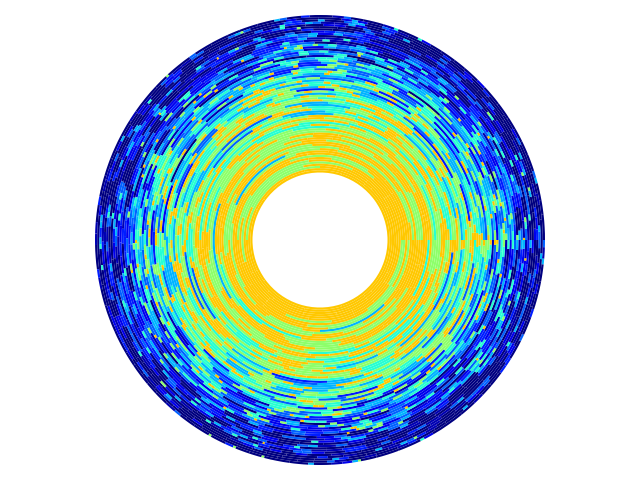
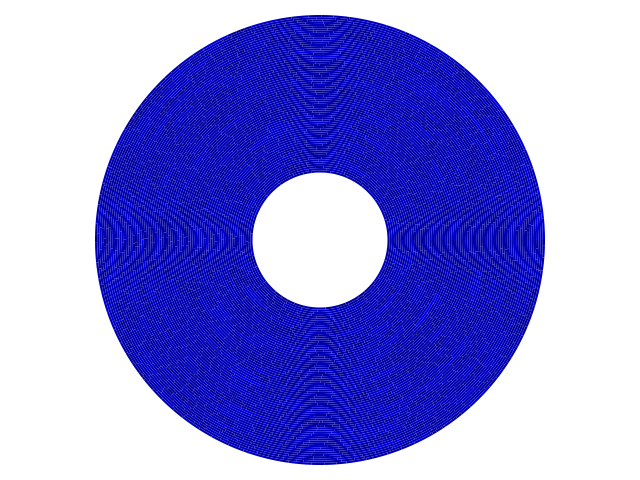
Update plot

diff --git a/diskpropsim/plot.py b/diskpropsim/plot.py
@@ -3,7 +3,6 @@
 from tqdm import tqdm
 import matplotlib.animation as animation
 import matplotlib.pyplot as plt
-import numpy as np
 
 
 def plot_snapshot(snapshot_state, r_in, r_out, progress_bar=False):
@@ -38,11 +37,11 @@ def _plot_snapshot_core(snapshot_state, r_in, r_out, ax,
     num_anulus, num_segments = snapshot_state.shape
     size = (r_out - r_in) / num_anulus
 
-    cmap = plt.colormaps["jet_r"]
+    cmap = plt.colormaps["jet"]
 
     for i, anulus in enumerate(tqdm(snapshot_state,
                                     disable=not(progress_bar))):
-        colors = cmap(np.log10(1+anulus))
+        colors = cmap(anulus)
         radius = r_out - i * size
         ax.pie(anulus, radius=radius, colors=colors,
                wedgeprops=dict(width=size))

diff --git a/example/propagation_adaf.py b/example/propagation_adaf.py
@@ -9,7 +9,7 @@ import diskpropsim as dps
 def main():
 
     num_step = 1000
-    r_out = 100
+    r_in = 30
 
     def initial_state_func(size):
         return np.random.poisson(10, size)
@@ -19,9 +19,9 @@ def main():
 
     fig, ax = plt.subplots(5, 2, figsize=(10, 12),
                            sharex="col", sharey="row")
-    for i, r_in in enumerate([50, 60, 70, 80, 90]):
+    for i, r_out in enumerate([50, 60, 70, 80, 90]):
 
-        dp = dps.DiskPropagation(r_in, r_out, 0.95)
+        dp = dps.DiskPropagation(r_in, r_out, 1.00)
         dp.initialize(initial_state_func)
         dp.run_simulation(num_step)
 

diff --git a/example/simple_polarimage.py b/example/simple_polarimage.py
@@ -19,7 +19,7 @@ def main():
     def observation_func(state):
         return np.random.poisson(state)
 
-    dp = dps.DiskPropagation(r_in, r_out, 0.95)
+    dp = dps.DiskPropagation(r_in, r_out, 1.00)
     dp.initialize(initial_state_func)
     dp.run_simulation(num_step)
 
@@ -29,8 +29,8 @@ def main():
         dps.plot_snapshot(obs[i], r_in, r_out)
         idx_rjust = str(i).rjust(4, "0")
         plt.savefig(f"animation/animation_{idx_rjust}.png")
-        plt.close()
         # plt.show()
+        plt.close()
 
 
 if __name__ == "__main__":
